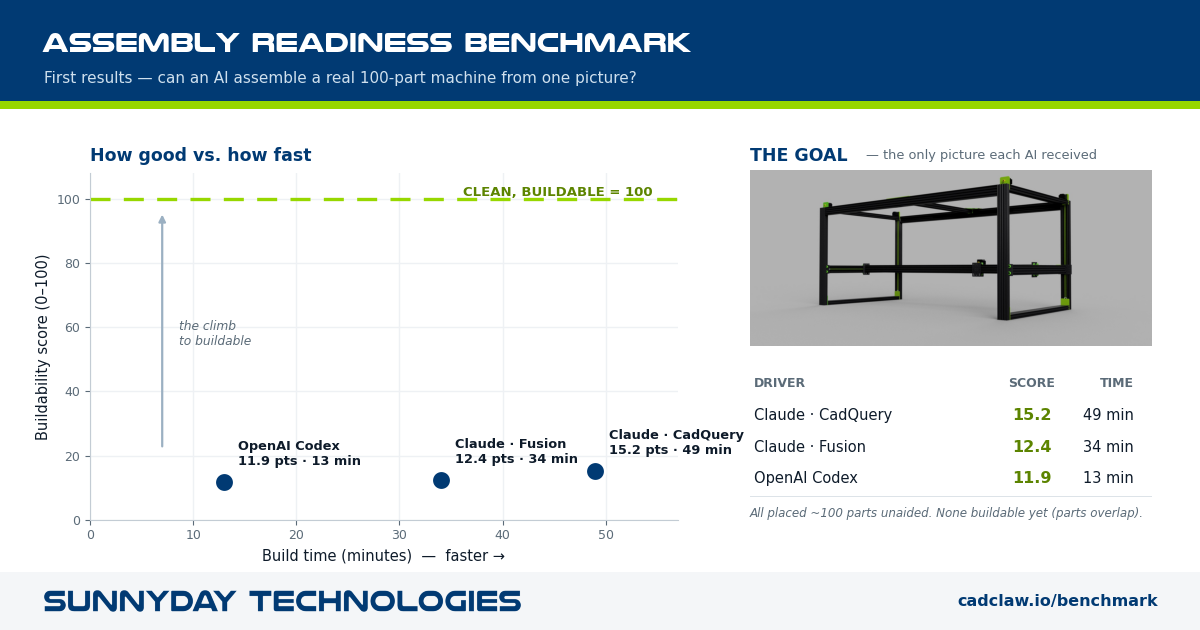
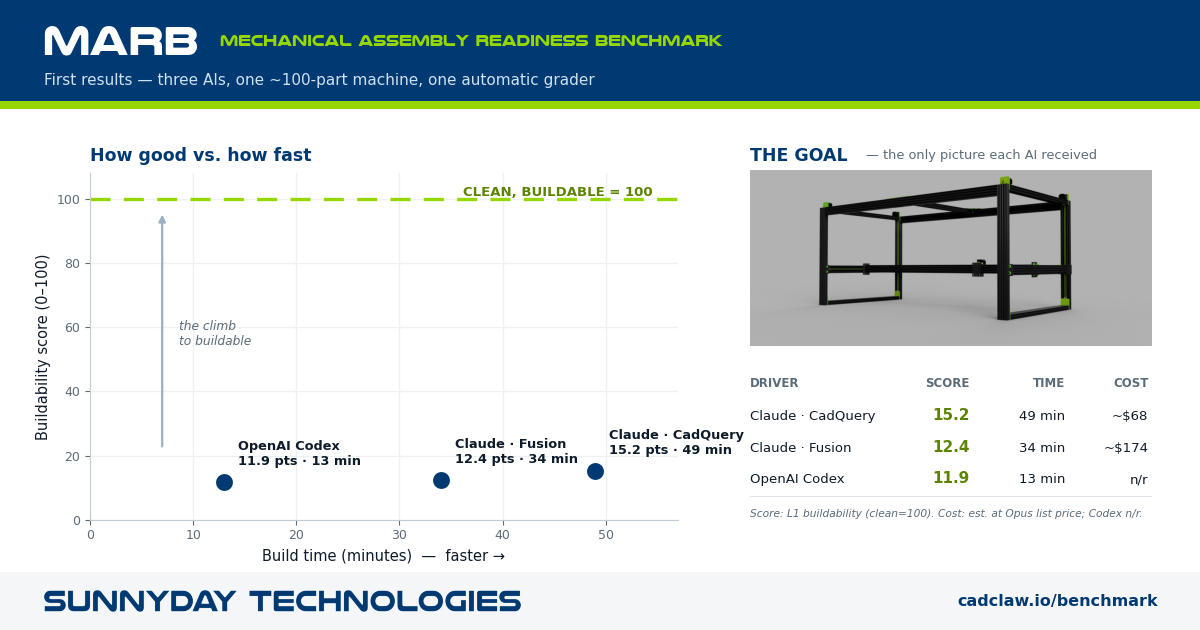
Rebrand to MARB (Mechanical Assembly Readiness Benchmark) + cost leaderboard
- ARB -> MARB and "Assembly Readiness Benchmark" -> "Mechanical Assembly
  Readiness Benchmark" across homepage, /benchmark/, /benchmark/first-results/
  (titles, meta, JSON-LD, body)
- New ranked leaderboard with a Cost column (est. at Opus list price;
  Codex tokens not reported) + methodology note
- Regenerated scoreboard graphic: MARB title + cost column

diff --git a/docs/benchmark/index.html b/docs/benchmark/index.html
@@ -3,9 +3,9 @@
 <head>
   <meta charset="utf-8" />
   <meta name="viewport" content="width=device-width,initial-scale=1" />
-  <title>The Assembly Readiness Benchmark (ARB) — measuring AI-built machines | CADCLAW</title>
+  <title>The Mechanical Assembly Readiness Benchmark (MARB) — measuring AI-built machines | CADCLAW</title>
   <meta name="description" content="A tool-independent, automated benchmark for whether an AI assembled a correct, buildable machine — graded by CADCLAW and mapped onto the TRL, MRL, and IRL readiness scales industry already trusts." />
-  <meta property="og:title" content="The Assembly Readiness Benchmark (ARB) — CADCLAW" />
+  <meta property="og:title" content="The Mechanical Assembly Readiness Benchmark (MARB) — CADCLAW" />
   <meta property="og:description" content="A tool-independent, automated readiness benchmark for AI-built machine assemblies, mapped onto TRL / MRL / IRL." />
   <meta property="og:type" content="article" />
   <meta property="og:url" content="https://cadclaw.io/benchmark/" />
@@ -21,6 +21,11 @@
     .restable tbody tr:nth-child(even){background:var(--paper);}
     .restable td em{color:var(--ink-faint);font-style:italic;}
     .restable td strong{color:var(--navy);}
+    .restable.leaderboard td:first-child{text-align:center;font-family:'Orbitron',sans-serif;color:var(--navy);font-weight:700;width:36px;}
+    .restable .score strong{font-size:16px;}
+    .restable tr.top td{background:rgba(151,215,0,.10);}
+    .restable tr.ref td,.restable tr.ref td strong{color:var(--ink-faint);}
+    .restable .th-sub{font-weight:400;text-transform:none;opacity:.75;}
   </style>
 </head>
 <body>
@@ -43,14 +48,14 @@
 <main>
   <section class="hero">
     <div>
-      <h1>Assembly Readiness Benchmark</h1>
-      <p class="tag">AI can assemble machines in CAD. <strong>ARB</strong> is the missing yardstick for whether the result is <strong>correct and buildable</strong> — a tool-independent, automated benchmark graded by <a href="/">CADCLAW</a> and mapped onto the readiness scales industry already trusts: <strong>TRL, MRL, IRL</strong>.</p>
+      <h1>Mechanical Assembly Readiness Benchmark</h1>
+      <p class="tag">AI can assemble machines in CAD. <strong>MARB</strong> is the missing yardstick for whether the result is <strong>correct and buildable</strong> — a tool-independent, automated benchmark graded by <a href="/">CADCLAW</a> and mapped onto the readiness scales industry already trusts: <strong>TRL, MRL, IRL</strong>.</p>
       <div class="cta-row">
         <a class="cta primary" href="#chart">See the readiness chart</a>
         <a class="cta" href="#summary">Plain-English summary</a>
         <a class="cta" href="https://github.com/sunnyday-technologies/CADCLAW">CADCLAW on GitHub</a>
       </div>
-      <p class="sub">White paper — review copies on request: <a href="mailto:info@sunn3d.com?subject=ARB%20white%20paper%20review">info@sunn3d.com</a></p>
+      <p class="sub">White paper — review copies on request: <a href="mailto:info@sunn3d.com?subject=MARB%20white%20paper%20review">info@sunn3d.com</a></p>
     </div>
     <div class="hero-mark">
       <img src="/media/sdt.png" alt="Sunnyday Technologies" onerror="this.style.display='none'" />
@@ -67,7 +72,7 @@
   <section class="section" id="gap">
     <h2>The gap</h2>
     <p class="lede">AI-CAD benchmarking is an active field — there are strong public benchmarks for <strong>generating</strong> geometry (ABC, DeepCAD, Fusion 360 Gallery, CADBench, Text2CAD-Bench), classifying parts (MCB), and predicting how <em>two</em> parts join (JoinABLe, AutoMate). None grade the thing a builder needs.</p>
-    <p class="lede">No public benchmark asks whether a <strong>complete, multi-part machine an AI assembled is correct and buildable</strong> — right parts, no collisions, nothing floating, every interface aligned across the whole system — judged automatically, independent of the authoring tool, and tied to a <strong>readiness level</strong>. That is the niche ARB fills.</p>
+    <p class="lede">No public benchmark asks whether a <strong>complete, multi-part machine an AI assembled is correct and buildable</strong> — right parts, no collisions, nothing floating, every interface aligned across the whole system — judged automatically, independent of the authoring tool, and tied to a <strong>readiness level</strong>. That is the niche MARB fills.</p>
     <div class="callout"><strong>Honest scope.</strong> Joint-prediction datasets score part pairs; generation benchmarks score single-part fidelity; none map to TRL/MRL/IRL. Prior-art survey current as of 2026-05.</div>
   </section>
 
@@ -89,7 +94,7 @@
 
   <section class="section" id="chart">
     <h2>Capability × Readiness</h2>
-    <p class="lede">The most useful artifact ARB offers: every rung mapped onto <strong>TRL</strong> (Technology Readiness), <strong>MRL</strong> (Manufacturing Readiness), and the integration-focused <strong>IRL</strong> — so anyone who already speaks readiness-levels can place an AI result instantly.</p>
+    <p class="lede">The most useful artifact MARB offers: every rung mapped onto <strong>TRL</strong> (Technology Readiness), <strong>MRL</strong> (Manufacturing Readiness), and the integration-focused <strong>IRL</strong> — so anyone who already speaks readiness-levels can place an AI result instantly.</p>
     <div class="output-media">
       <img src="/media/trl_mrl_irl_chart.png" alt="The CADCLAW capability ladder (L0–L7) mapped to TRL, MRL, and IRL evidence bands" />
       <p class="caption">CADCLAW capability ladder ↔ TRL / MRL / IRL — indicative evidence bands, not equivalence.</p>
@@ -102,8 +107,8 @@
     <h2>How the benchmark runs</h2>
     <p class="lede">One task, any tool, one grader. Every AI workflow gets the same prompt + kit and is judged on its exported STEP by the same automated, tool-independent gates — the score is the only thing that differs.</p>
     <div class="output-media">
-      <img src="/media/arb_flowchart.png" alt="ARB pipeline: inputs to AI driver to exported STEP to CADCLAW gates to ARB score and readiness to human review" />
-      <p class="caption">The ARB pipeline — inputs → AI driver → exported STEP → CADCLAW gates → ARB score + readiness → human review, with a read-fix-rerun loop.</p>
+      <img src="/media/arb_flowchart.png" alt="MARB pipeline: inputs to AI driver to exported STEP to CADCLAW gates to MARB score and readiness to human review" />
+      <p class="caption">The MARB pipeline — inputs → AI driver → exported STEP → CADCLAW gates → MARB score + readiness → human review, with a read-fix-rerun loop.</p>
     </div>
   </section>
 
@@ -113,10 +118,10 @@
     <div class="gates">
       <div class="gate"><h3>Gates</h3><p>Black-box, on the exported STEP: <b>Inventory</b> (right parts) · <b>Interference</b> (no overlaps) · <b>Floating</b> (all connected) · <b>Orientation</b> (correct pose — <i>v-next</i>).</p></div>
       <div class="gate"><h3>L1 sub-grade · 0–100</h3><p>How well the kit is assembled, &times; a <b>buildability factor</b> that falls with interference (clip count + overlap volume). A self-intersecting frame can't be built, so it can't score high.</p></div>
-      <div class="gate"><h3>ARB full-stack · 0–100</h3><p>Rung on the L0–L7 capability ladder. A clean L1 ≈ 15 today; the rest of the scale is the road to autonomous design. Mapped to TRL / MRL / IRL.</p></div>
+      <div class="gate"><h3>MARB full-stack · 0–100</h3><p>Rung on the L0–L7 capability ladder. A clean L1 ≈ 15 today; the rest of the scale is the road to autonomous design. Mapped to TRL / MRL / IRL.</p></div>
       <div class="gate"><h3>Effort (reported separately)</h3><p>Wall-clock, tokens, attempts, retries, corrections, human interventions — measured from the run log, <b>never folded into the score</b>.</p></div>
     </div>
-    <div class="callout"><strong>Same task, same kit, same grader — the only variable is the driver.</strong> That makes ARB a clean <em>performance-vs-model-capability</em> axis: every model (frontier, local, or agentic system) is one point on the same graph.</div>
+    <div class="callout"><strong>Same task, same kit, same grader — the only variable is the driver.</strong> That makes MARB a clean <em>performance-vs-model-capability</em> axis: every model (frontier, local, or agentic system) is one point on the same graph.</div>
   </section>
 
   <section class="section dark">
@@ -140,15 +145,16 @@
       <img src="/media/hero_score_vs_time.png" alt="Score vs build time for the three AI runs; all near the floor, OpenAI Codex fastest" />
       <p class="caption">How good vs. how fast. All three sit near the floor (a clean build = 100); <strong>OpenAI Codex did it in 13 minutes</strong> — far faster, slightly lower score.</p>
     </div>
-    <table class="restable">
-      <thead><tr><th>Track</th><th>Parts</th><th>Inv / Float</th><th>Interference</th><th>L1</th><th>Full&#8209;stack</th><th>Time</th><th>Tokens</th></tr></thead>
+    <table class="restable leaderboard">
+      <thead><tr><th>#</th><th>Model · tool</th><th>MARB score</th><th>Parts</th><th>Interference</th><th>Time</th><th>Cost <span class="th-sub">est.</span></th></tr></thead>
       <tbody>
-        <tr><td>CADCLAW reference <em>(answer key)</em></td><td>100/100</td><td>✓ / ✓</td><td>✓ clean</td><td><strong>100</strong></td><td>15.0</td><td>—</td><td>—</td></tr>
-        <tr><td><strong>Claude&#8209;CadQuery</strong></td><td>100/100</td><td>✓ / ✓</td><td>✗ 35 clips · 248 cm³</td><td><strong>15.2</strong></td><td>6.52</td><td>48.8 min</td><td>22.1M</td></tr>
-        <tr><td><strong>Claude&#8209;Fusion</strong></td><td>100/100</td><td>✓ / ✓</td><td>✗ 44 clips · 323 cm³</td><td><strong>12.4</strong></td><td>6.24</td><td>33.7 min</td><td>34.2M</td></tr>
-        <tr><td><strong>Codex&#8209;CadQuery</strong> <em>(OpenAI Codex / GPT-5)</em></td><td>100/100</td><td>✓ / ✓</td><td>✗ 50 clips · 288 cm³</td><td><strong>11.9</strong></td><td>6.19</td><td>13.0 min</td><td><em>n/a</em></td></tr>
+        <tr class="top"><td>1</td><td><strong>Claude Opus 4.7</strong> · CadQuery</td><td class="score"><strong>15.2</strong></td><td>100/100</td><td>35 clips · 248 cm³</td><td>48.8 min</td><td>~$68</td></tr>
+        <tr><td>2</td><td><strong>Claude Opus 4.7</strong> · Fusion</td><td class="score"><strong>12.4</strong></td><td>100/100</td><td>44 clips · 323 cm³</td><td>33.7 min</td><td>~$174</td></tr>
+        <tr><td>3</td><td><strong>GPT&#8209;5 Codex</strong> · CadQuery</td><td class="score"><strong>11.9</strong></td><td>100/100</td><td>50 clips · 288 cm³</td><td><strong>13.0 min</strong></td><td><em>not reported</em></td></tr>
+        <tr class="ref"><td>—</td><td>CADCLAW reference <em>(answer key)</em></td><td class="score"><strong>100</strong></td><td>100/100</td><td>✓ clean</td><td>resolver</td><td>—</td></tr>
       </tbody>
     </table>
+    <p class="caption" style="text-align:left;max-width:74ch;">MARB score = the L1 buildability sub-grade (0–100; a clean, fully-buildable assembly scores 100). <strong>Cost</strong> is estimated at Anthropic Opus list price (~$15 / $75 per million input / output tokens, $1.50 per million cache-read) applied to measured token usage; the Codex CLI did not report tokens (a one-shot run, so the lowest of the three). Effort — time, cost, attempts — is reported alongside the score, never folded into it.</p>
     <p class="lede">Every flagged clip is structural — beams overlapping at splice joints and post/frame junctions, and the centered 2040 inserts overlapping their beams. <strong>Both also placed the Z-posts in the wrong rotation</strong> versus the reference — an orientation error the current gates don't yet catch, and the next gate we're adding.</p>
     <div class="callout"><strong>Interference is the buildability gate.</strong> A self-intersecting frame can't be built, so it scales the L1 score down — a near-miss outranks a mess. Effort (time, tokens, attempts) is reported separately, never folded into the artifact score.</div>
     <div class="callout"><strong>Fairness note.</strong> CADCLAW and its placement resolver were first built around CadQuery, before the Fusion connection (MCP) existed — so the CadQuery runs may carry a home-field edge in tooling maturity. We flag it so the comparison stays honest; an orientation gate and more reference tasks will tighten it.</div>
@@ -165,16 +171,16 @@
   <section class="section dark" id="method">
     <h2>What we asked — and what we didn't</h2>
     <p class="lede">We gave the <strong>goal, not the method</strong>. The driver got the target — the pictured assembly plus design constraints — and the kit, but <em>not</em> the build sequence. The original human-guided build specified an inside-out order (X axis → Y → Z-posts) and detailed steps; here we deliberately withheld that and let the AI decide how to reach the pictured result.</p>
-    <p class="lede">So ARB really tests whether a model <strong>understands the mechanical system</strong> — here a V-slot-and-roller gantry, a basic, well-documented pattern. Placing all 100 parts but self-intersecting, with mis-oriented posts, says a model recognizes the <em>parts</em> but not yet how they <em>go together</em>.</p>
+    <p class="lede">So MARB really tests whether a model <strong>understands the mechanical system</strong> — here a V-slot-and-roller gantry, a basic, well-documented pattern. Placing all 100 parts but self-intersecting, with mis-oriented posts, says a model recognizes the <em>parts</em> but not yet how they <em>go together</em>.</p>
     <p class="lede"><strong>Human-reviewable throughout.</strong> Both drivers emitted orthographic + isometric renders as they built, so a person could watch the assembly take shape and abort a bad run early to save tokens. (Fusion didn't persist its in-session views, so we recovered the progression afterward straight from the live model via its MCP — see above.)</p>
-    <p class="lede"><strong>One point on a bigger graph — and the spread is instructive.</strong> The three frontier runs took <strong>13–49 minutes</strong> for one ~100-part assembly. The model that <em>iterated</em> most — reviewing its own renders, re-extracting real hole patterns — scored highest but ran longest; the <em>one-shot</em> run was 4× faster and scored lowest. More careful self-review buys accuracy at the cost of time and tokens. Next on the curve: a top <strong>local</strong> model as a low-capability anchor — same task, same grader, plotted as capability vs ARB score.</p>
+    <p class="lede"><strong>One point on a bigger graph — and the spread is instructive.</strong> The three frontier runs took <strong>13–49 minutes</strong> for one ~100-part assembly. The model that <em>iterated</em> most — reviewing its own renders, re-extracting real hole patterns — scored highest but ran longest; the <em>one-shot</em> run was 4× faster and scored lowest. More careful self-review buys accuracy at the cost of time and tokens. Next on the curve: a top <strong>local</strong> model as a low-capability anchor — same task, same grader, plotted as capability vs MARB score.</p>
   </section>
 
   <section class="section" id="summary">
     <h2>Why it matters — in plain English</h2>
     <p class="lede">Checking a design for mistakes is one of the most common — and costly — jobs in engineering. The longer a mistake hides, the more it costs. A widely-used rule of thumb, the <strong>1-10-100 rule</strong>: a mistake caught while <em>designing</em> costs about <strong>$1</strong> to fix; caught while <em>building</em>, about <strong>$10</strong>; caught after it <em>ships</em>, <strong>$100 or more</strong>.</p>
     <p class="lede">Today that checking is mostly done by hand — an engineer rotating a model on screen, hunting for parts that overlap or don't line up. It's slow, easy to miss things, and it doesn't scale. The hours and the escaped mistakes are pure <strong>lost value</strong>.</p>
-    <p class="lede"><strong>Why now, and not a year ago?</strong> Two things just arrived at the same time: AI that can actually drive CAD and assemble parts, and an automated checker (CADCLAW) that can prove an assembly is right — instantly, the same way every time. Put them together and you can both build <em>and</em> verify by machine. ARB is the scoreboard that keeps it honest.</p>
+    <p class="lede"><strong>Why now, and not a year ago?</strong> Two things just arrived at the same time: AI that can actually drive CAD and assemble parts, and an automated checker (CADCLAW) that can prove an assembly is right — instantly, the same way every time. Put them together and you can both build <em>and</em> verify by machine. MARB is the scoreboard that keeps it honest.</p>
     <div class="audience">
       <div><h3>For engineers</h3><p>A pytest-style, tool-independent check that an assembly is buildable — on every change, not just at sign-off.</p></div>
       <div><h3>For programs</h3><p>Automated, auditable readiness evidence that plugs into the TRL/MRL/IRL gate reviews you already run.</p></div>
@@ -183,7 +189,7 @@
 
   <section class="section" id="different">
     <h2>What makes it different</h2>
-    <p class="lede">ARB is not "a CAD checker." Specifics separate it from CAD-vendor tooling and from prior benchmarks:</p>
+    <p class="lede">MARB is not "a CAD checker." Specifics separate it from CAD-vendor tooling and from prior benchmarks:</p>
     <ul class="not-prove-list">
       <li><strong>Grades the shipped STEP, not a vendor's feature tree.</strong> Fusion, SolidWorks, and an AI agent are scored the same way — the only fair cross-tool yardstick.</li>
       <li><strong>Scores the whole machine, not part pairs.</strong> System-level integrity across every interface at once, where joint/mate datasets stop at two parts.</li>
@@ -191,14 +197,14 @@
       <li><strong>Traces to a real, built machine.</strong> The reference target is a physical prototype that exists in metal, not only pixels.</li>
       <li><strong>Audits its own claims.</strong> CADCLAW ships honesty tooling and refuses to assert a head-to-head it hasn't run.</li>
     </ul>
-    <div class="callout"><strong>Open standard, proprietary engine.</strong> The ladder, rubric, schemas, and chart are open to measure and audit against; the gate algorithms and resolver are the engine. Adopt the standard without the IP — and trust the score because the method is open. ARB sits on top of every CAD tool; it doesn't compete with where designs are drawn. CADCLAW reads and proposes fixes — it never edits your model. The human stays the engineer.</div>
+    <div class="callout"><strong>Open standard, proprietary engine.</strong> The ladder, rubric, schemas, and chart are open to measure and audit against; the gate algorithms and resolver are the engine. Adopt the standard without the IP — and trust the score because the method is open. MARB sits on top of every CAD tool; it doesn't compete with where designs are drawn. CADCLAW reads and proposes fixes — it never edits your model. The human stays the engineer.</div>
   </section>
 
   <section class="section dark">
     <h2>Read &amp; review</h2>
     <p class="lede">We are publishing the ladder and the readiness correlation as a <strong>candidate standard</strong> and inviting the field to measure against it.</p>
     <div class="cta-row">
-      <a class="cta primary" href="mailto:info@sunn3d.com?subject=ARB%20white%20paper%20review">Request the white paper</a>
+      <a class="cta primary" href="mailto:info@sunn3d.com?subject=MARB%20white%20paper%20review">Request the white paper</a>
       <a class="cta" href="https://github.com/sunnyday-technologies/CADCLAW">CADCLAW on GitHub</a>
       <a class="cta" href="/ci-for-cad/">How CADCLAW works</a>
     </div>

diff --git a/docs/index.html b/docs/index.html
@@ -4,8 +4,8 @@
   <meta charset="utf-8" />
   <meta name="viewport" content="width=device-width,initial-scale=1" />
   <title>CADCLAW — Can AI assemble real machines? The AI-CAD assembly benchmark</title>
-  <meta name="description" content="The Assembly Readiness Benchmark (ARB): give AIs the same parts and the same goal, then grade what they build with one automatic checker. Powered by CADCLAW, an open-source CAD verification engine." />
-  <meta property="og:title" content="Can AI assemble real machines? — the ARB benchmark, powered by CADCLAW" />
+  <meta name="description" content="The Mechanical Assembly Readiness Benchmark (MARB): give AIs the same parts and the same goal, then grade what they build with one automatic checker. Powered by CADCLAW, an open-source CAD verification engine." />
+  <meta property="og:title" content="Can AI assemble real machines? — the MARB benchmark, powered by CADCLAW" />
   <meta property="og:description" content="Three AIs each built a 100-part machine from the same kit. We graded all three identically. See the scoreboard." />
   <meta property="og:type" content="website" />
   <meta property="og:url" content="https://cadclaw.io" />
@@ -20,21 +20,21 @@
       {
         "@type": "Dataset",
         "@id": "https://cadclaw.io/#arb",
-        "name": "Assembly Readiness Benchmark (ARB)",
-        "alternateName": "ARB",
+        "name": "Mechanical Assembly Readiness Benchmark (MARB)",
+        "alternateName": "MARB",
         "description": "A tool-independent benchmark that measures how well AI workflows assemble a real multi-part machine in CAD: right parts, no collisions, nothing floating, correctly aligned — graded automatically and mapped onto the TRL/MRL/IRL readiness scales.",
         "url": "https://cadclaw.io/benchmark/",
         "keywords": "AI CAD benchmark, assembly readiness, mechanical design AI, STEP assembly grading, TRL MRL IRL, agentic CAD",
         "creator": { "@id": "https://sunn3d.com/#org" },
         "isBasedOn": { "@id": "https://cadclaw.io/#software" },
-        "measurementTechnique": "Automated black-box geometry grading (inventory, interference, floating) on the exported STEP, scored on the ARB L0-L7 capability ladder."
+        "measurementTechnique": "Automated black-box geometry grading (inventory, interference, floating) on the exported STEP, scored on the MARB L0-L7 capability ladder."
       },
       {
         "@type": "SoftwareApplication",
         "@id": "https://cadclaw.io/#software",
         "name": "CADCLAW",
         "alternateName": "cadclaw",
-        "description": "CADCLAW is an automated check suite for STEP-based CAD assemblies — pytest-style geometric, kinematic, tolerance, and BOM-vs-CAD validation, with an honesty toolchain (doctor, publish-audit, claim-audit) and an included MCP server. It is the open verification engine behind the ARB benchmark.",
+        "description": "CADCLAW is an automated check suite for STEP-based CAD assemblies — pytest-style geometric, kinematic, tolerance, and BOM-vs-CAD validation, with an honesty toolchain (doctor, publish-audit, claim-audit) and an included MCP server. It is the open verification engine behind the MARB benchmark.",
         "applicationCategory": "DeveloperApplication",
         "applicationSubCategory": "CAD validation / mechanical engineering QA",
         "operatingSystem": "Cross-platform (Windows, macOS, Linux)",
@@ -74,7 +74,7 @@
         "@id": "https://cadclaw.io/#website",
         "url": "https://cadclaw.io/",
         "name": "CADCLAW — AI-CAD assembly benchmark",
-        "description": "The Assembly Readiness Benchmark and the open CADCLAW verification engine behind it.",
+        "description": "The Mechanical Assembly Readiness Benchmark and the open CADCLAW verification engine behind it.",
         "publisher": { "@id": "https://sunn3d.com/#org" },
         "inLanguage": "en"
       }
@@ -103,7 +103,7 @@
   <section class="hero">
     <div class="hero-copy">
       <h1>Can AI assemble<br/>real machines?</h1>
-      <p class="tag">We give different AIs the <strong>same parts</strong> and the <strong>same goal</strong>, then grade what each one builds with <strong>one automatic checker</strong>. It's the <strong>Assembly Readiness Benchmark</strong> — and it runs on <a href="#engine">CADCLAW</a>, our open-source verification engine.</p>
+      <p class="tag">We give different AIs the <strong>same parts</strong> and the <strong>same goal</strong>, then grade what each one builds with <strong>one automatic checker</strong>. It's the <strong>Mechanical Assembly Readiness Benchmark</strong> — and it runs on <a href="#engine">CADCLAW</a>, our open-source verification engine.</p>
       <div class="cta-row">
         <a class="cta primary" href="#results">See the results</a>
         <a class="cta" href="/benchmark/first-results/">Read the deep dive</a>
@@ -137,18 +137,18 @@
   </section>
 
   <section id="benchmark" class="section dark">
-    <h2>What ARB measures</h2>
+    <h2>What MARB measures</h2>
     <p class="lede">A capability ladder, L0–L7, from "place one part correctly" up to "design, build, and certify a machine autonomously." Today's frontier sits at <strong>L1 — assemble the kit</strong>. The benchmark is graded on what the exported geometry proves, so any tool — Fusion, CadQuery, or an AI agent — is judged on equal footing, and scored against the readiness scales industry already uses.</p>
     <div class="cta-row">
       <a class="cta" href="/benchmark/">The benchmark + readiness chart</a>
       <a class="cta" href="/benchmark/first-results/">The deep dive</a>
     </div>
-    <p class="muted">Prior art exists for AI <em>generating</em> CAD; ARB is, to our knowledge, the first tool-independent benchmark for whether a whole assembled machine is <em>correct and buildable</em>.</p>
+    <p class="muted">Prior art exists for AI <em>generating</em> CAD; MARB is, to our knowledge, the first tool-independent benchmark for whether a whole assembled machine is <em>correct and buildable</em>.</p>
   </section>
 
   <section id="engine" class="section">
     <h2>The engine: CADCLAW <span class="badge">open source</span></h2>
-    <p class="lede">ARB runs on <strong>CADCLAW</strong> — an open-source check suite for STEP assemblies. It's the same engine you can <code>pip install</code> and run in your own CI: a chain of automated gates that pass only when every configured check passes. Like <code>pytest</code> for mechanical design — in spirit.</p>
+    <p class="lede">MARB runs on <strong>CADCLAW</strong> — an open-source check suite for STEP assemblies. It's the same engine you can <code>pip install</code> and run in your own CI: a chain of automated gates that pass only when every configured check passes. Like <code>pytest</code> for mechanical design — in spirit.</p>
 
     <div class="gates">
       <div class="gate"><h3>Inventory</h3><p>Missing or extra parts, by bounding-box signature, against expected counts.</p></div>
@@ -188,7 +188,7 @@ cadclaw bom-audit --rules cadclaw.yaml           <span class="g"># or a single g
 
   <section class="section dark">
     <h2>Origin</h2>
-    <p class="lede">CADCLAW was built alongside the <a href="https://m3-crete.com">M3-CRETE</a> open-source concrete 3D printer — the large, part-dense machine that is also ARB's first reference target. Across that project the harness:</p>
+    <p class="lede">CADCLAW was built alongside the <a href="https://m3-crete.com">M3-CRETE</a> open-source concrete 3D printer — the large, part-dense machine that is also MARB's first reference target. Across that project the harness:</p>
     <ul class="origin">
       <li>Caught <strong>53 solid-solid interferences</strong> in a single run</li>
       <li>Reduced STEP file size from <strong>70&nbsp;MB to 13&nbsp;MB</strong> by finding geometry bloat</li>
@@ -199,7 +199,7 @@ cadclaw bom-audit --rules cadclaw.yaml           <span class="g"># or a single g
 
   <section id="cite" class="section">
     <h2>Citation</h2>
-    <p>If you use CADCLAW or ARB in published research or derivative work, please cite:</p>
+    <p>If you use CADCLAW or MARB in published research or derivative work, please cite:</p>
 <pre class="code">Sonnentag, N. (2026). CADCLAW: Automated validation framework for
 STEP-based CAD assemblies. Sunnyday Technologies.
 https://github.com/sunnyday-technologies/CADCLAW

diff --git a/docs/benchmark/first-results/index.html b/docs/benchmark/first-results/index.html
@@ -3,9 +3,9 @@
 <head>
   <meta charset="utf-8" />
   <meta name="viewport" content="width=device-width,initial-scale=1" />
-  <title>How well can AI assemble a machine? The first Assembly Readiness Benchmark results</title>
+  <title>How well can AI assemble a machine? The first Mechanical Assembly Readiness Benchmark results</title>
   <meta name="description" content="Three AI workflows — Claude (Fusion and CadQuery) and OpenAI Codex — each assembled a 100-part machine from the same kit, graded by one automatic checker. Full method, metrics, results, and honest limitations." />
-  <meta property="og:title" content="The first Assembly Readiness Benchmark results — how well can AI assemble a machine?" />
+  <meta property="og:title" content="The first Mechanical Assembly Readiness Benchmark results — how well can AI assemble a machine?" />
   <meta property="og:description" content="Three AIs built the same 100-part machine; all complete, none buildable yet. Score-vs-time, the failure modes, and what it means." />
   <meta property="og:type" content="article" />
   <meta property="og:url" content="https://cadclaw.io/benchmark/first-results/" />
@@ -18,8 +18,8 @@
   {
     "@context": "https://schema.org",
     "@type": "TechArticle",
-    "headline": "How well can AI assemble a machine? The first Assembly Readiness Benchmark results",
-    "description": "Three AI workflows each assembled a 100-part machine from the same kit, graded identically by the CADCLAW engine on the ARB benchmark.",
+    "headline": "How well can AI assemble a machine? The first Mechanical Assembly Readiness Benchmark results",
+    "description": "Three AI workflows each assembled a 100-part machine from the same kit, graded identically by the CADCLAW engine on the MARB benchmark.",
     "url": "https://cadclaw.io/benchmark/first-results/",
     "datePublished": "2026-05-26",
     "dateModified": "2026-05-26",
@@ -81,7 +81,7 @@
     <img src="/media/m3_target.png" alt="The reference image of the finished M3-CRETE frame given to each AI">
     <figcaption>The goal image. The only picture each AI was given — no steps, just this plus the box of parts.</figcaption>
   </figure>
-  <p>That design choice is the point: ARB tests whether a model <strong>understands the mechanical system</strong> — here, a V-slot-and-roller gantry, a basic and well-documented pattern — not whether it can follow a recipe. A <strong>fairness wall</strong> kept each run honest: the driver worked only from the brief and kit, never the reference solution.</p>
+  <p>That design choice is the point: MARB tests whether a model <strong>understands the mechanical system</strong> — here, a V-slot-and-roller gantry, a basic and well-documented pattern — not whether it can follow a recipe. A <strong>fairness wall</strong> kept each run honest: the driver worked only from the brief and kit, never the reference solution.</p>
 
   <h2>2. The grader — one checker, any tool</h2>
   <p>Every build was graded by <strong>CADCLAW</strong>, our open-source engine, as a <strong>black box</strong>: it loads the exported STEP file — no roles, no metadata — labels each solid by its shape signature, and runs three host-agnostic gates:</p>
@@ -90,9 +90,9 @@
     <li><strong>Interference</strong> — do any two solids overlap (a collision)?</li>
     <li><strong>Floating</strong> — is every part connected, or is something loose?</li>
   </ul>
-  <p>Because it grades the <em>exported file</em> rather than a vendor's feature tree, the same procedure judges Fusion, CadQuery, and any AI agent on equal footing. The result feeds the <strong>ARB capability ladder</strong> (L0–L7) and a <strong>buildability factor</strong>: interference scales the score down, because a self-intersecting frame cannot be built. A clean build earns an L1 sub-grade of 100; the ladder then maps onto the TRL / MRL / IRL readiness scales industry already uses.</p>
+  <p>Because it grades the <em>exported file</em> rather than a vendor's feature tree, the same procedure judges Fusion, CadQuery, and any AI agent on equal footing. The result feeds the <strong>MARB capability ladder</strong> (L0–L7) and a <strong>buildability factor</strong>: interference scales the score down, because a self-intersecting frame cannot be built. A clean build earns an L1 sub-grade of 100; the ladder then maps onto the TRL / MRL / IRL readiness scales industry already uses.</p>
   <figure>
-    <img src="/media/arb_flowchart.png" alt="The ARB pipeline from inputs to AI driver to exported STEP to grader to score">
+    <img src="/media/arb_flowchart.png" alt="The MARB pipeline from inputs to AI driver to exported STEP to grader to score">
     <figcaption>One task, any tool, one grader. The only variable is the driver.</figcaption>
   </figure>
 
@@ -136,7 +136,7 @@
   <ul>
     <li><strong>A tooling-maturity bias to disclose.</strong> CADCLAW and its placement resolver were first built around CadQuery, before the Fusion connection (MCP) existed. The CadQuery runs may therefore carry a home-field edge. We flag it so the comparison stays honest; an orientation gate and more reference tasks will tighten it.</li>
     <li><strong>The reference "100" is our own method.</strong> The clean baseline is the spec-driven build (our home workflow) shown as the <em>target</em>, not a neutral third party. We publish the grader and the benchmark scaffold openly so anyone can reproduce — or challenge — these scores.</li>
-    <li><strong>Verification is not physical certification.</strong> ARB grades geometry and buildability, not real-world performance.</li>
+    <li><strong>Verification is not physical certification.</strong> MARB grades geometry and buildability, not real-world performance.</li>
     <li><strong>The scorer is early</strong> and version-pinned; effort metrics (time, tokens, attempts) are reported separately and never folded into the artifact score.</li>
     <li><strong>One task, three models</strong> — a starting line, not a verdict. More drivers and tasks are coming.</li>
     <li>To our knowledge no prior benchmark grades whole-assembly buildability tool-independently; pairwise-joint datasets (JoinABLe, AutoMate) are the nearest neighbours and address a sub-problem.</li>
@@ -144,7 +144,7 @@
 
   <h2>8. Why it matters, and what's next</h2>
   <p>Until recently there was no way to measure this. An AI that can drive CAD, and an automatic checker that confirms whether the result is correct, only recently became usable together. With both in place, the same task can be scored the same way for any tool or model, so improvement is measurable rather than anecdotal.</p>
-  <p>Next on the curve: a top <strong>local</strong> model as a low-capability anchor, more frontier drivers, the orientation gate, and additional reference tasks — each plotted as capability vs. ARB score. We are publishing the ladder, the scoring, and the readiness correlation as a <strong>candidate standard</strong> and inviting labs, CAD vendors, and standards bodies to measure against it.</p>
+  <p>Next on the curve: a top <strong>local</strong> model as a low-capability anchor, more frontier drivers, the orientation gate, and additional reference tasks — each plotted as capability vs. MARB score. We are publishing the ladder, the scoring, and the readiness correlation as a <strong>candidate standard</strong> and inviting labs, CAD vendors, and standards bodies to measure against it.</p>
   <p class="note">Reproduce or review: the benchmark scaffold (prompt, scoring, run procedures) and the CADCLAW engine are open. Method overview: <a href="/benchmark/">cadclaw.io/benchmark</a>. Engine: <a href="https://github.com/sunnyday-technologies/CADCLAW">GitHub</a>. Reviewers welcome — <a href="mailto:info@sunn3d.com">info@sunn3d.com</a>.</p>
 </main>
 
